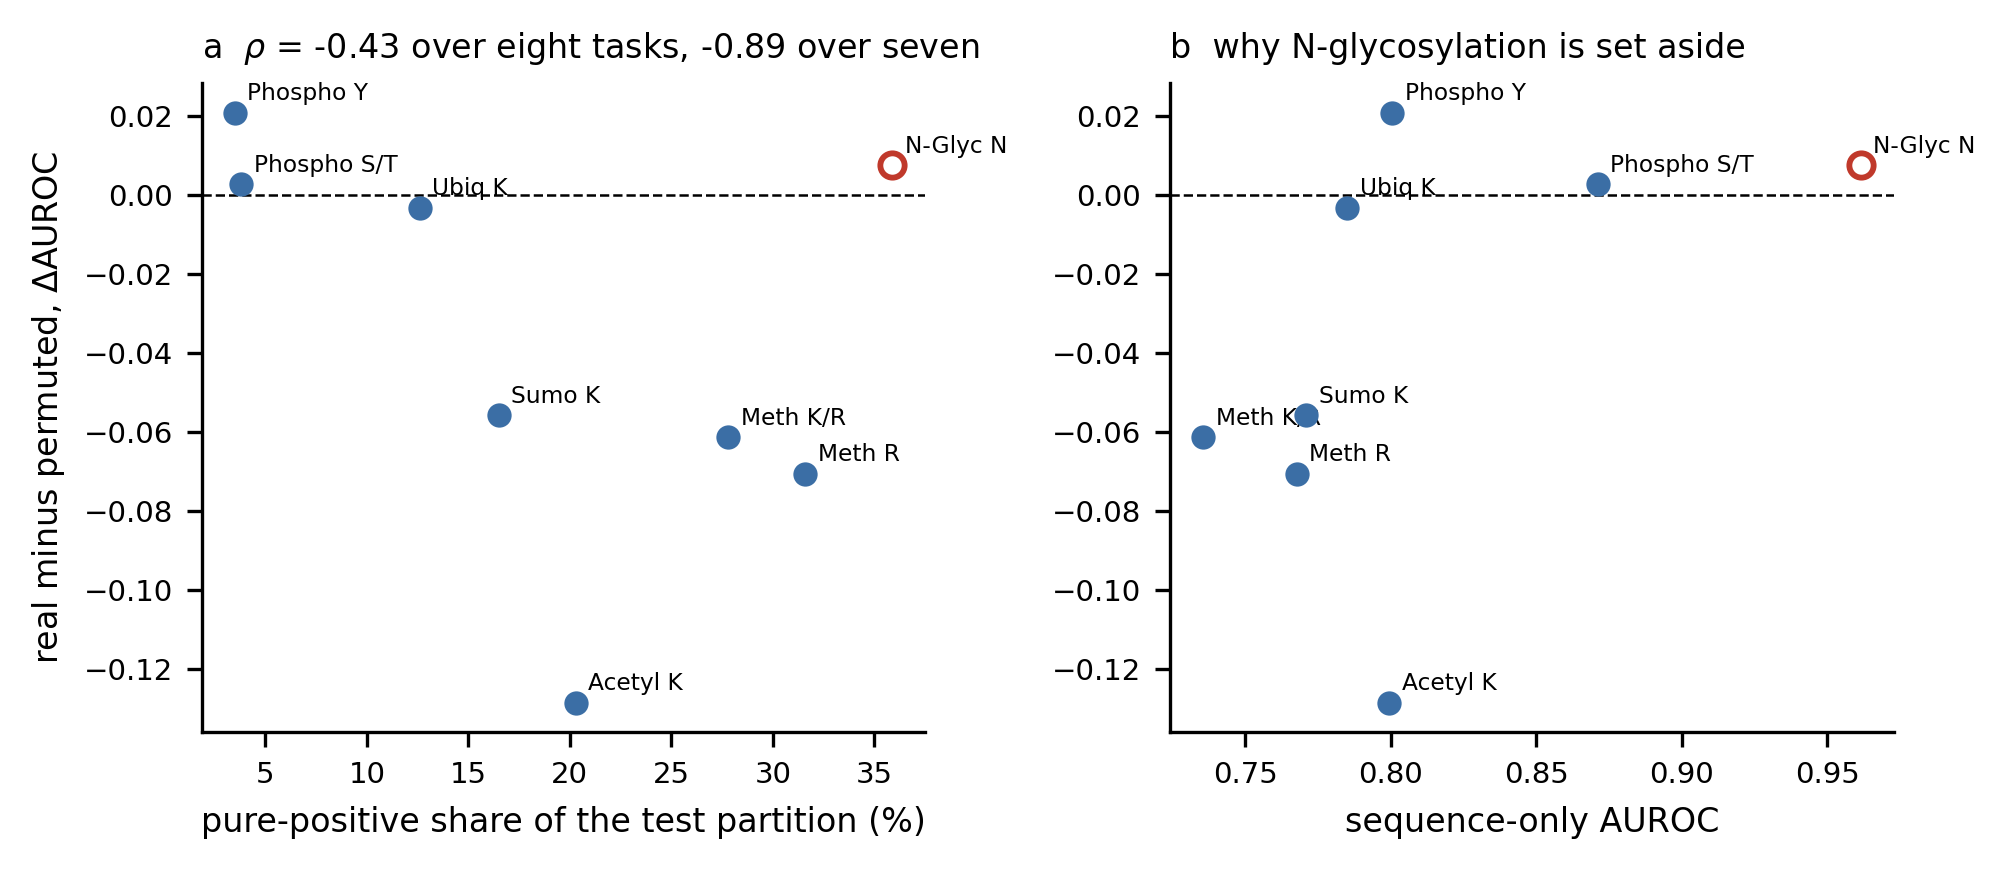
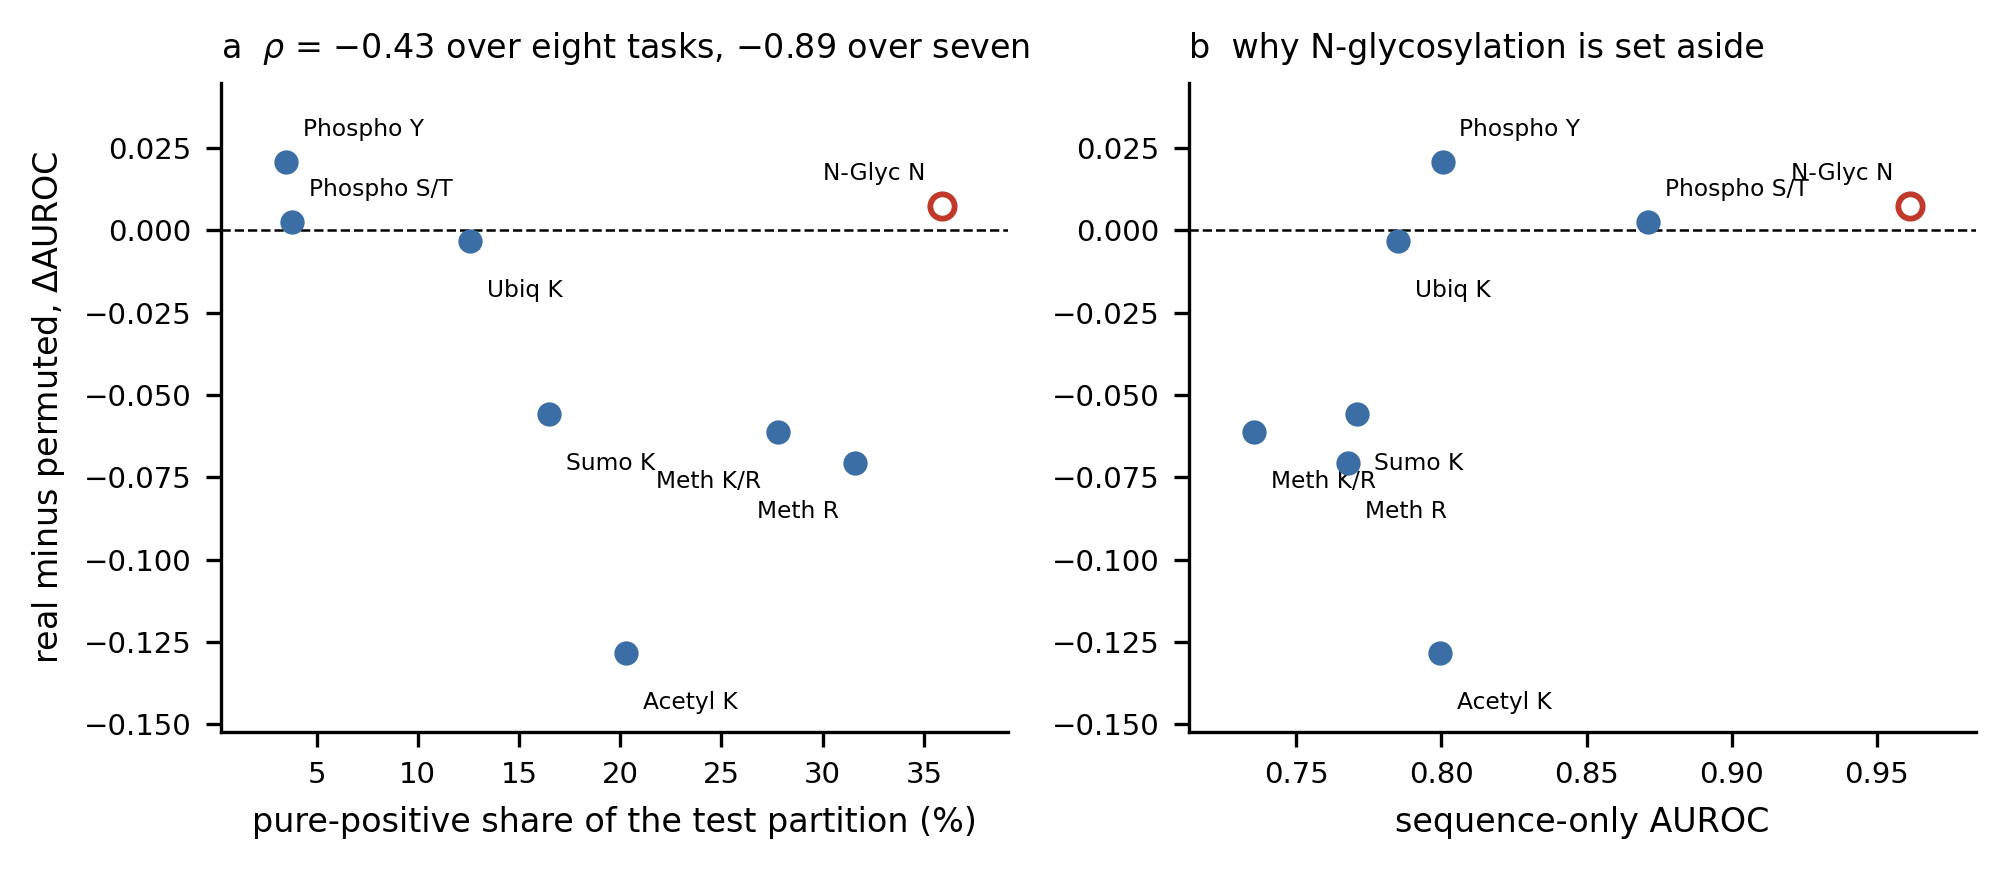
figure S5: place labels by sign of the margin
Labels sat at a fixed offset and several landed on the zero rule, which four of
the eight points lie against. They now go above the marker for a positive margin
and below for a negative one, with axis margins so the lowest label does not
clip, and the correlation values in the panel title use a minus sign rather than
a hyphen.

diff --git a/analysis/plot_perm_margin.py b/analysis/plot_perm_margin.py
@@ -47,33 +47,49 @@ def main():
 
     fig, ax = plt.subplots(1, 2, figsize=(6.8, 3.0))
 
+    # Labels are placed away from the zero line, which several points sit on:
+    # a label at a fixed offset lands on the dashed rule and is unreadable.
+    def place(a, x, y, t, xs):
+        # Above the marker for a positive margin, below for a negative one, so no
+        # label lands on the zero rule that several points sit against; and to the
+        # left for points near the right edge, which would otherwise run off it.
+        lo, hi = min(xs), max(xs)
+        right = x < lo + 0.72 * (hi - lo)
+        a.annotate(t, (x, y), fontsize=5.6,
+                   xytext=(4 if right else -4, 5 if y >= 0 else -9),
+                   ha="left" if right else "right",
+                   va="bottom" if y >= 0 else "top",
+                   textcoords="offset points")
+
+    xs0 = list(PUREPOS.values())
     for t in tasks:
         ex = t == EXCLUDED
         ax[0].scatter(PUREPOS[t], MARGIN[t], s=34,
                       facecolor="white" if ex else "#3b6ea5",
                       edgecolor="#c0392b" if ex else "#3b6ea5",
                       linewidth=1.4 if ex else 0, zorder=3)
-        ax[0].annotate(t, (PUREPOS[t], MARGIN[t]), fontsize=5.6,
-                       xytext=(3, 3), textcoords="offset points")
+        place(ax[0], PUREPOS[t], MARGIN[t], t, xs0)
     ax[0].axhline(0, color="k", lw=.6, ls="--")
     ax[0].set_xlabel("pure-positive share of the test partition (%)", fontsize=8)
     ax[0].set_ylabel("real minus permuted, $\\Delta$AUROC", fontsize=8)
-    ax[0].set_title(f"a  $\\rho$ = {r8.statistic:+.2f} over eight tasks, "
-                    f"{r7.statistic:+.2f} over seven", loc="left", fontsize=8)
+    fmt = lambda v: f"{v:+.2f}".replace("-", "\u2212")
+    ax[0].set_title(f"a  $\\rho$ = {fmt(r8.statistic)} over eight tasks, "
+                    f"{fmt(r7.statistic)} over seven", loc="left", fontsize=8)
 
+    xs1 = list(BASELINE.values())
     for t in tasks:
         ex = t == EXCLUDED
         ax[1].scatter(BASELINE[t], MARGIN[t], s=34,
                       facecolor="white" if ex else "#3b6ea5",
                       edgecolor="#c0392b" if ex else "#3b6ea5",
                       linewidth=1.4 if ex else 0, zorder=3)
-        ax[1].annotate(t, (BASELINE[t], MARGIN[t]), fontsize=5.6,
-                       xytext=(3, 3), textcoords="offset points")
+        place(ax[1], BASELINE[t], MARGIN[t], t, xs1)
     ax[1].axhline(0, color="k", lw=.6, ls="--")
     ax[1].set_xlabel("sequence-only AUROC", fontsize=8)
     ax[1].set_title("b  why N-glycosylation is set aside", loc="left", fontsize=8)
 
     for x in ax:
+        x.margins(y=0.16, x=0.10)
         x.tick_params(labelsize=7)
         for sp in ("top", "right"):
             x.spines[sp].set_visible(False)
@@ -86,4 +102,3 @@ def main():
 
 if __name__ == "__main__":
     sys.exit(main())
-
